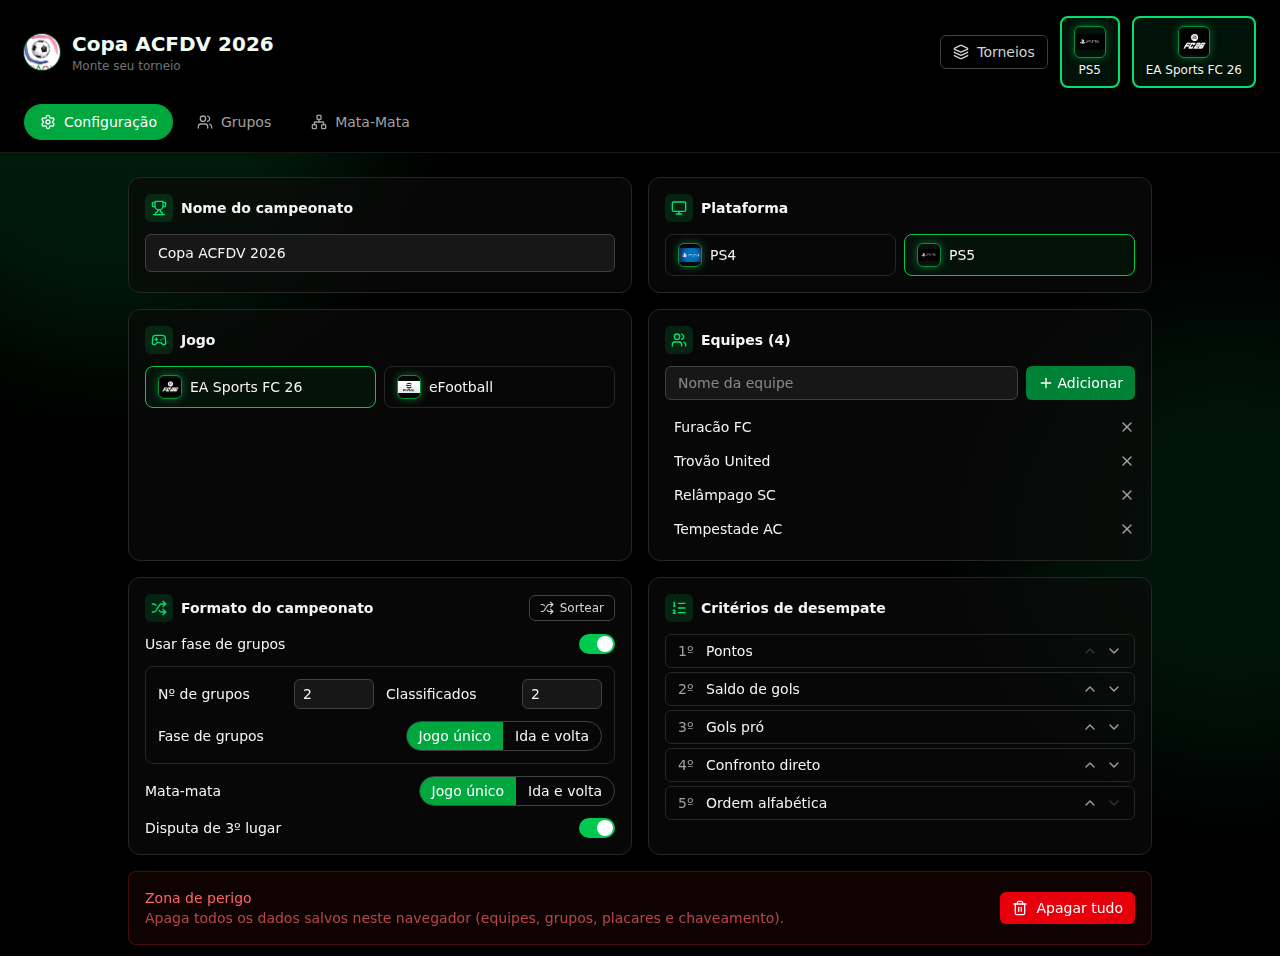
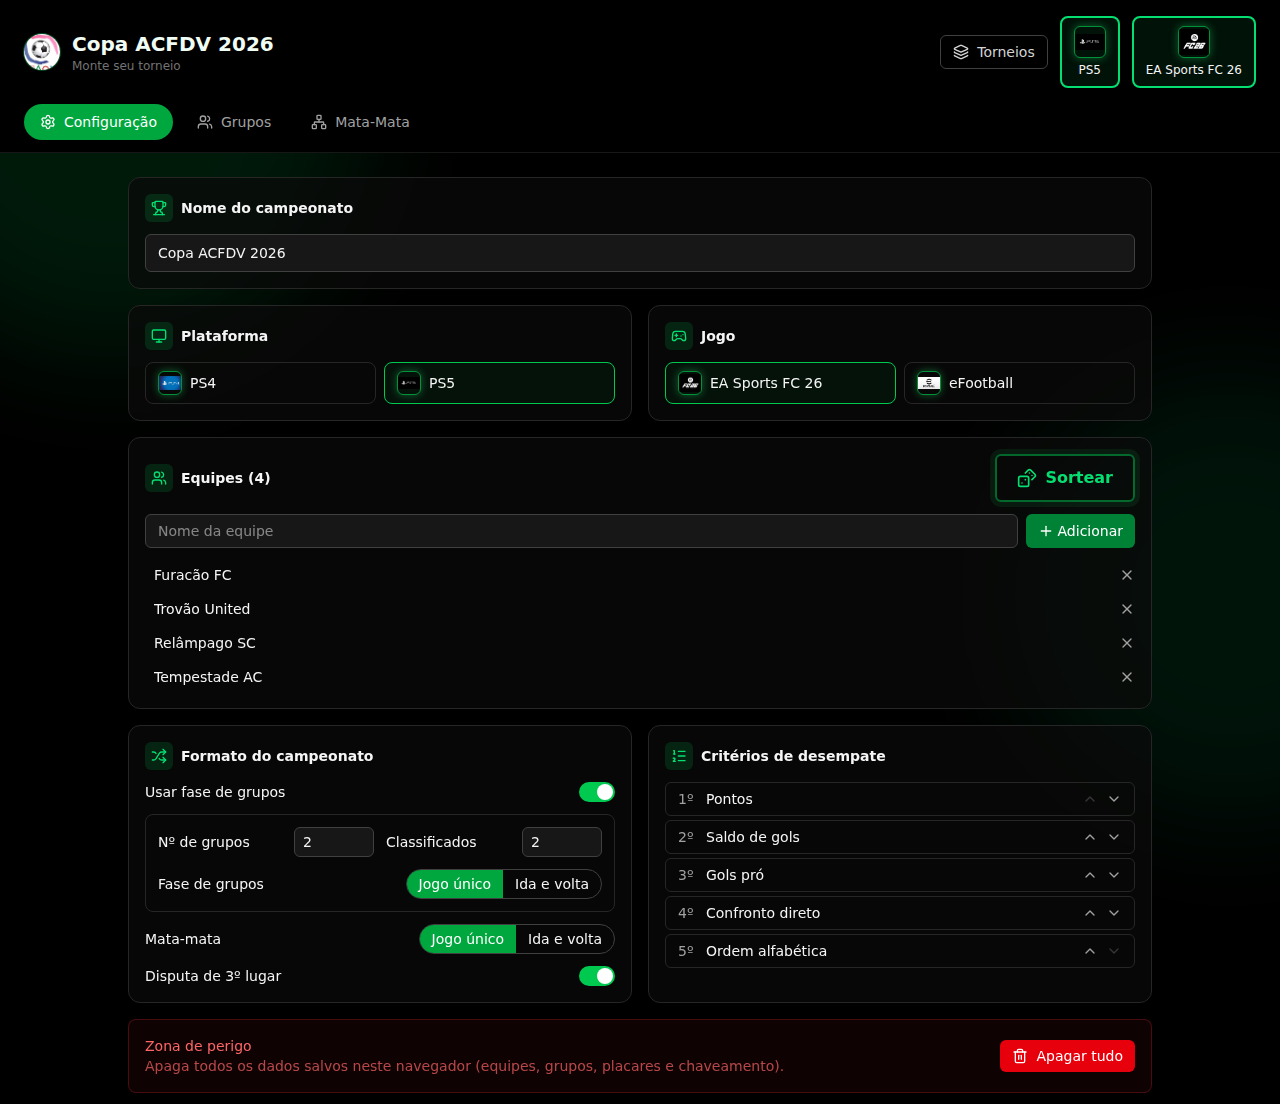
Restyle Sortear button and draw reveal overlay, update README screenshot
Sortear moves to the Equipes card header, gets a transparent/bordered look
with a matrix-green dice icon, a bigger size and a pulsing border ring.
The draw reveal overlay becomes a wider (landscape) card with a thicker
neon border. Refreshes the config screen screenshot in the README.

diff --git a/src/components/shared/DrawRevealOverlay.tsx b/src/components/shared/DrawRevealOverlay.tsx
@@ -53,27 +53,29 @@ export function DrawRevealOverlay({ title, items, pool, onFinish }: DrawRevealOv
 
   return (
     <div className="fixed inset-0 z-50 flex flex-col items-center justify-center bg-black/85 px-6 backdrop-blur-sm">
-      <p className="mb-2 text-xs font-medium tracking-widest text-green-400 uppercase">{title}</p>
-      <p className="mb-6 text-lg text-neutral-300">{current.label}</p>
-      <p className="mb-10 max-w-full truncate text-4xl font-bold text-green-400">{spinningText}</p>
+      <div className="flex w-full max-w-3xl flex-col items-center rounded-2xl border-4 border-green-400 bg-black/60 px-16 py-6 shadow-[0_0_45px_rgba(34,197,94,0.7)]">
+        <p className="mb-2 text-xs font-medium tracking-widest text-green-400 uppercase">{title}</p>
+        <p className="mb-4 text-lg text-neutral-300">{current.label}</p>
+        <p className="mb-6 max-w-full truncate text-4xl font-bold text-green-400">{spinningText}</p>
 
-      {revealed.length > 0 && (
-        <div className="mb-10 flex max-w-2xl flex-wrap justify-center gap-2">
-          {revealed.map((r, i) => (
-            <span key={i} className="rounded bg-white/10 px-2 py-1 text-sm text-neutral-300">
-              {r}
-            </span>
-          ))}
-        </div>
-      )}
+        {revealed.length > 0 && (
+          <div className="mb-6 flex max-w-2xl flex-wrap justify-center gap-2">
+            {revealed.map((r, i) => (
+              <span key={i} className="rounded bg-white/10 px-2 py-1 text-sm text-neutral-300">
+                {r}
+              </span>
+            ))}
+          </div>
+        )}
 
-      <button
-        type="button"
-        onClick={onFinish}
-        className="rounded-md border border-white/30 px-4 py-2 text-sm text-white hover:bg-white/10"
-      >
-        Pular animação
-      </button>
+        <button
+          type="button"
+          onClick={onFinish}
+          className="rounded-md border border-white/30 px-4 py-2 text-sm text-white hover:bg-white/10"
+        >
+          Pular animação
+        </button>
+      </div>
     </div>
   )
 }

diff --git a/src/components/config/DrawGroupsButton.tsx b/src/components/config/DrawGroupsButton.tsx
@@ -1,11 +1,10 @@
 import { useState } from 'react'
-import { Shuffle } from 'lucide-react'
+import { Dices } from 'lucide-react'
 import { useTournamentStore, useTournamentStoreApi } from '../../store/tournamentStore'
 import { DrawRevealOverlay, type RevealItem } from '../shared/DrawRevealOverlay'
 
 export function DrawGroupsButton() {
   const config = useTournamentStore((s) => s.config)
-  const groups = useTournamentStore((s) => s.groups)
   const teams = useTournamentStore((s) => s.teams)
   const drawGroups = useTournamentStore((s) => s.drawGroups)
   const storeApi = useTournamentStoreApi()
@@ -28,10 +27,10 @@ export function DrawGroupsButton() {
         type="button"
         onClick={handleDraw}
         disabled={teams.length < config.groupCount}
-        className="flex items-center gap-1.5 rounded-md border border-neutral-700 px-2.5 py-1 text-xs font-medium text-neutral-300 hover:border-green-500 hover:text-green-400 disabled:opacity-40"
+        className="flex items-center justify-center gap-2 rounded-md border-2 border-green-500/50 bg-transparent px-5 py-2.5 text-base font-semibold text-green-400 hover:bg-green-500/10 disabled:opacity-40 disabled:[animation:none] animate-[pulse-border_1.6s_ease-in-out_infinite]"
       >
-        <Shuffle className="h-3.5 w-3.5" />
-        {groups.length > 0 ? 'Sortear novamente' : 'Sortear'}
+        <Dices className="h-5 w-5 text-green-400" />
+        Sortear
       </button>
 
       {revealItems && (

diff --git a/src/components/config/ConfigView.tsx b/src/components/config/ConfigView.tsx
@@ -17,7 +17,7 @@ export function ConfigView() {
   return (
     <div className="mx-auto max-w-5xl space-y-4">
       <div className="grid gap-4 md:grid-cols-2">
-        <Card icon={Trophy} title="Nome do campeonato">
+        <Card icon={Trophy} title="Nome do campeonato" className="md:col-span-2">
           <input
             value={config.name}
             onChange={(e) => updateConfig({ name: e.target.value })}
@@ -42,15 +42,16 @@ export function ConfigView() {
           />
         </Card>
 
-        <Card icon={Users} title={`Equipes (${teams.length})`}>
+        <Card
+          icon={Users}
+          title={`Equipes (${teams.length})`}
+          className="md:col-span-2"
+          action={config.useGroupStage && <DrawGroupsButton />}
+        >
           <TeamManager />
         </Card>
 
-        <Card
-          icon={Shuffle}
-          title="Formato do campeonato"
-          action={config.useGroupStage && <DrawGroupsButton />}
-        >
+        <Card icon={Shuffle} title="Formato do campeonato">
           <RulesEditor />
         </Card>
 

diff --git a/src/index.css b/src/index.css
@@ -12,3 +12,13 @@ body {
 #root {
   min-height: 100svh;
 }
+
+@keyframes pulse-border {
+  0%,
+  100% {
+    box-shadow: 0 0 0 0 rgba(34, 197, 94, 0.55);
+  }
+  50% {
+    box-shadow: 0 0 0 6px rgba(34, 197, 94, 0);
+  }
+}
